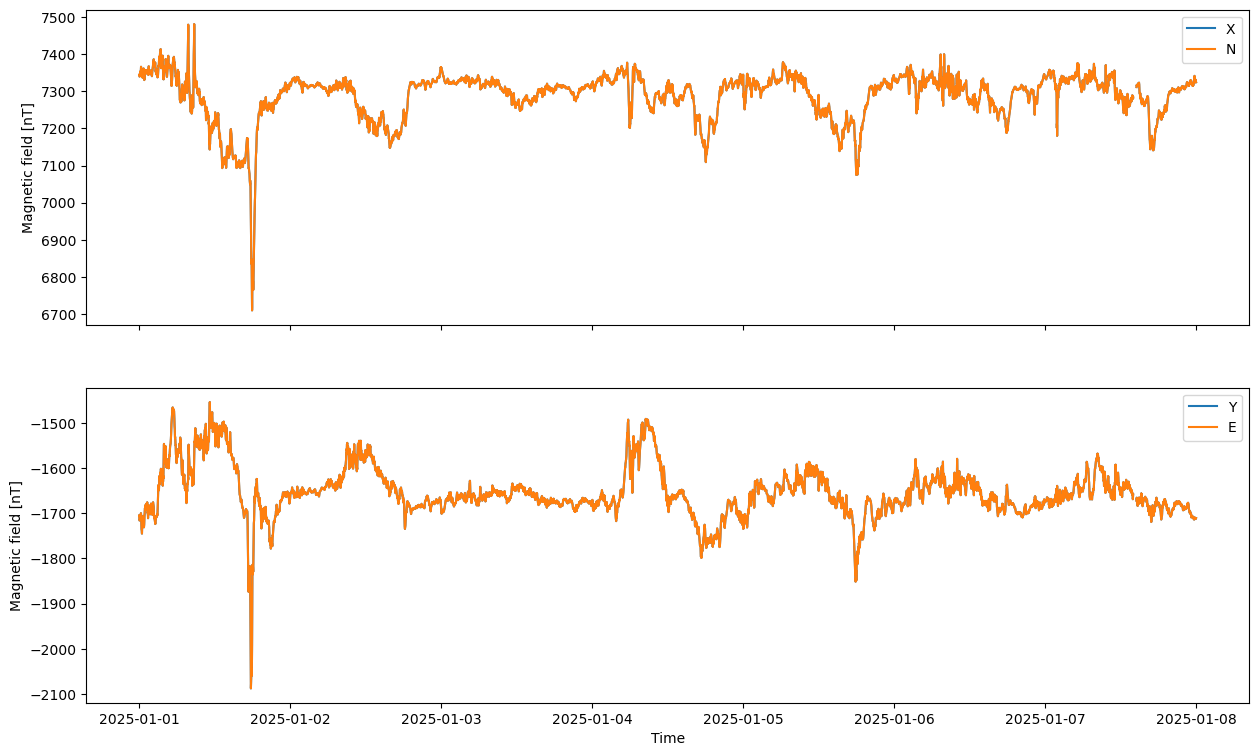
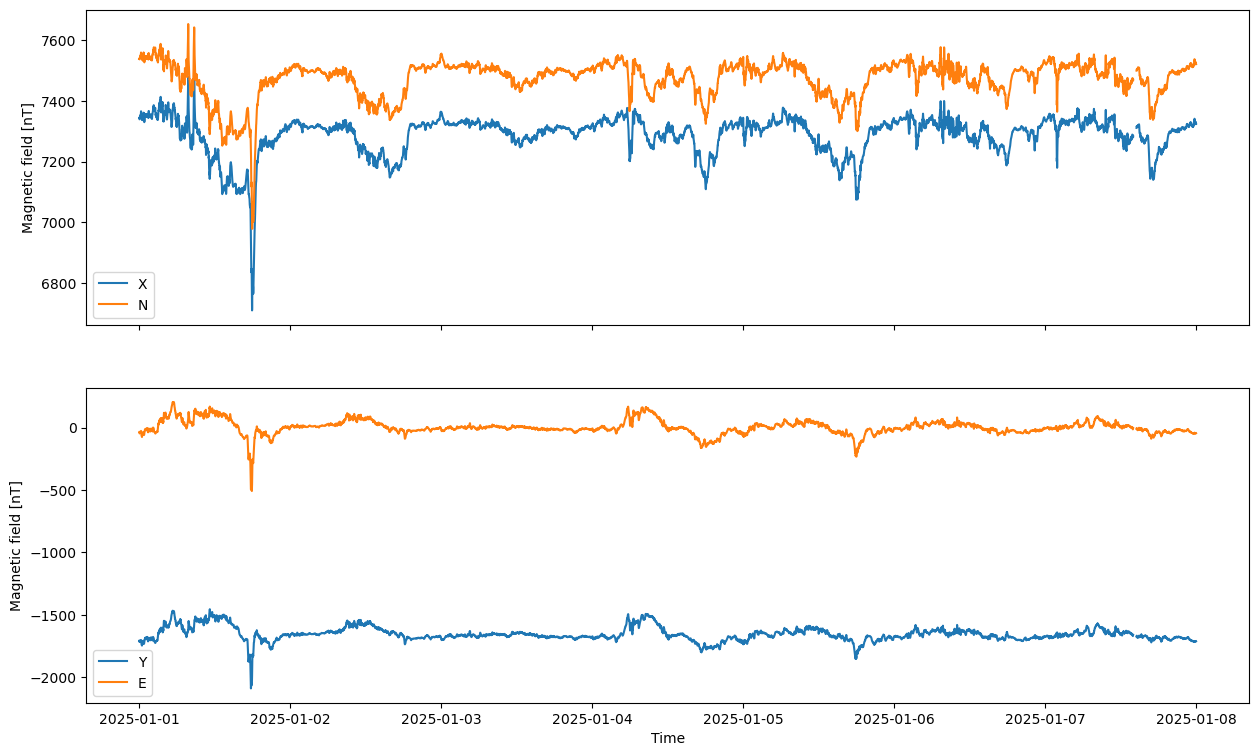
Rotation binning bug

diff --git a/baseline/coordinate_rotator.py b/baseline/coordinate_rotator.py
@@ -17,18 +17,37 @@ class CoordinateRotator:
     implementation follows the same broad approach:
 
     1. Estimate an instantaneous declination from the horizontal components.
-        2. Determine one typical declination value per day using a symmetric
-           odd-day window (17 days by default).
+    2. Determine one typical declination value per day using a symmetric
+       odd-day window (17 days by default) and an angle-specific histogram.
     3. Smooth the daily declination values.
     4. Interpolate the declination back to the native cadence.
     5. Rotate X/Y into N/E and carry Z through unchanged.
+
+    ``declination_bin_width_degrees`` controls the angular resolution of the
+    typical-value histogram. It is deliberately separate from the 1 nT bin
+    width used when estimating magnetic-field baselines.
     """
 
-    def __init__(self, t, x, y, z, window_days=17, smoothing_sigma_days=30.0):
+    def __init__(
+        self,
+        t,
+        x,
+        y,
+        z,
+        window_days=17,
+        smoothing_sigma_days=30.0,
+        declination_bin_width_degrees=0.1,
+    ):
         """Store the input data and configuration for the rotation step."""
         self.df = pd.DataFrame({"datetime": t, "X": x, "Y": y, "Z": z})
         self.window_days = int(window_days)
         self.smoothing_sigma_days = float(smoothing_sigma_days)
+        self.declination_bin_width_degrees = float(declination_bin_width_degrees)
+        if (
+            not np.isfinite(self.declination_bin_width_degrees)
+            or self.declination_bin_width_degrees <= 0
+        ):
+            raise ValueError("declination_bin_width_degrees must be positive")
 
     def rotate(self):
         """
@@ -73,7 +92,10 @@ class CoordinateRotator:
             )
 
             q_values = self.df.loc[mask, "q_raw"].values
-            q_typical, _ = get_typical_value(q_values)
+            q_typical, _ = get_typical_value(
+                q_values,
+                bin_width=np.deg2rad(self.declination_bin_width_degrees),
+            )
             timestamp = day + pd.Timedelta(hours=12)
             results.append((timestamp, q_typical))
 

diff --git a/tests/test_coordinate_rotator.py b/tests/test_coordinate_rotator.py
@@ -1,0 +1,67 @@
+from __future__ import annotations
+
+import unittest
+
+import numpy as np
+
+from baseline import CoordinateRotator
+
+
+class CoordinateRotatorTests(unittest.TestCase):
+    def test_recovers_declination_from_large_absolute_components(self):
+        samples_per_day = 48
+        n_samples = 19 * samples_per_day
+        t = np.arange(
+            np.datetime64("2026-01-01T00:00"),
+            np.datetime64("2026-01-01T00:00") + n_samples * np.timedelta64(30, "m"),
+            np.timedelta64(30, "m"),
+        )
+
+        expected_q = np.arctan2(3000.0, 7500.0)
+        horizontal_field = np.hypot(7500.0, 3000.0)
+        rng = np.random.default_rng(42)
+        n = horizontal_field + rng.normal(0.0, 50.0, n_samples)
+        e = rng.normal(0.0, 20.0, n_samples)
+        x = n * np.cos(expected_q) - e * np.sin(expected_q)
+        y = n * np.sin(expected_q) + e * np.cos(expected_q)
+        z = np.zeros(n_samples)
+
+        rotator = CoordinateRotator(t, x, y, z)
+        rotator.rotate()
+
+        q = rotator.df["q"].to_numpy(dtype=float)
+        rotated_e = rotator.df["E"].to_numpy(dtype=float)
+
+        self.assertAlmostEqual(
+            np.degrees(np.nanmedian(q)),
+            np.degrees(expected_q),
+            delta=0.1,
+        )
+        self.assertLess(abs(np.nanmean(rotated_e)), 20.0)
+        self.assertGreater(abs(np.nanmean(y)), 2500.0)
+
+    def test_rejects_nonpositive_declination_bin_width(self):
+        t = np.array([np.datetime64("2026-01-01T00:00")])
+        values = np.ones(1)
+
+        with self.assertRaisesRegex(ValueError, "must be positive"):
+            CoordinateRotator(
+                t,
+                values,
+                values,
+                values,
+                declination_bin_width_degrees=0.0,
+            )
+
+        with self.assertRaisesRegex(ValueError, "must be positive"):
+            CoordinateRotator(
+                t,
+                values,
+                values,
+                values,
+                declination_bin_width_degrees=np.nan,
+            )
+
+
+if __name__ == "__main__":
+    unittest.main()

diff --git a/baseline/baseline_estimator.py b/baseline/baseline_estimator.py
@@ -784,10 +784,18 @@ class BaselineEstimator:
 def get_typical_value(
     vals,
     return_diagnostics=False,
+    *,
+    bin_width=1.0,
 ):
-    """Estimate the paper-style typical value and spread."""
+    """Estimate the paper-style typical value and spread.
+
+    ``bin_width`` uses the same units as ``vals``. Its 1.0 default is the
+    1 nT resolution used for magnetic-field baseline estimation; callers with
+    other quantities, such as angles, must provide an appropriate resolution.
+    """
     mu, sigma, diagnostics = _get_typical_value_paper_mode(
         vals,
+        bin_width=bin_width,
         return_diagnostics=return_diagnostics,
     )
 

diff --git a/vault/05_Handoff/Handoff - Latest.md b/vault/05_Handoff/Handoff - Latest.md
@@ -1,35 +1,44 @@
 # Handoff - Latest
 
-Last updated: 2026-07-26
-Verified against: `baseline_v2` code at `d979b94`
+Last updated: 2026-09-28
+Verified against: `baseline_v2` working tree based on `954ba50`
 
 ## Project in one paragraph
 
 BASELINE reproduces the baseline-removal workflow from the 2012 SuperMAG
 data-processing paper. `baseline/` is the paper-oriented reference track.
 `baseline_v2/` is a faster array-first experimental track with both reference
-and robust Step 1c estimators. Work is currently paused on the V2 branch.
+and robust Step 1c estimators. A bounded coordinate-rotation bug fix is complete
+in the working tree; broader V2 work remains paused.
 
 ## Live repository snapshot
 
-At the 2026-07-26 documentation review:
+At the 2026-09-28 rotation checkpoint:
 
-- the worktree was clean before the onboarding changes;
-- `baseline_v2` matched `origin/baseline_v2`;
-- the latest code commit was `d979b94` from 2026-04-28;
-- the project vault and root `AGENTS.md` were integrated as versioned
-  documentation while local `.obsidian/` state remained ignored;
-- the vault integration made no source-code or scientific changes;
-- no later project work was found;
-- V2 unit tests, SuperMAG-facing scripts, checkpoints, and reference/robust
-  figure outputs were present;
-- the focused V2 suite passed 14 tests with 1 skipped, and the broad syntax
-  check passed.
+- `baseline_v2` is based on `954ba50` and tracks `origin/baseline_v2`;
+- the working tree contains the uncommitted coordinate-rotation fix, its tests,
+  and this project-memory checkpoint;
+- declination now uses a configurable `0.1 degree` histogram width instead of
+  the field estimator's `1 nT` numeric default;
+- `tests/test_coordinate_rotator.py` verifies the reported X=7500 nT,
+  Y=3000 nT geometry and recovers approximately 21.8 degrees;
+- all 16 focused tests pass and the broad Python syntax check passes;
+- the repaired rotator was run on all 525,600 samples of
+  `data/DMH_1min_2025.csv`, yielding a median declination of -12.77 degrees;
+- `figures/real_rotation.png` was regenerated and visually inspected: over its
+  first-week interval, mean Y=-1654.7 nT becomes mean E=1.0 nT;
+- downstream variance and baseline-estimation outputs were not regenerated.
 
 Inspect Git and the live code again before making changes. This snapshot is
 orientation, not authority.
 
-## Current implementation focus
+## Next action
+
+Review and commit the coordinate-rotation fix. When broader project work
+resumes, the research focus remains the V2 reference-versus-robust comparison
+below.
+
+## Paused implementation focus
 
 The next research task is to validate V2's robust dominant-region Step 1c
 estimator against the V2 reference path:
@@ -47,6 +56,9 @@ comparison that the historical work did not record formally.
 
 ## Relevant entry points
 
+- `baseline/coordinate_rotator.py`
+- `baseline/baseline_estimator.py`
+- `tests/test_coordinate_rotator.py`
 - `baseline_v2/step1c_reference.py`
 - `baseline_v2/step1c_robust.py`
 - `baseline_v2/types.py`

diff --git a/vault/01_Project/Current State.md b/vault/01_Project/Current State.md
@@ -1,15 +1,15 @@
 # Current State
 
-Reviewed: 2026-07-26
-Code snapshot: `baseline_v2` at `d979b94`
+Reviewed: 2026-09-28
+Code snapshot: `baseline_v2` at `954ba50` with an uncommitted coordinate-rotation fix
 Vault integration: versioned in the repository; local `.obsidian/` state ignored
 
 ## Current position
 
-Development is paused on the modern V2 track. The repository has no commits
-containing implementation changes after 2026-04-28, so the pause did not
-conceal newer code changes. The later vault-integration commit is
-documentation-only and does not change scientific or implementation state.
+Broader development remains paused on the modern V2 track. The committed
+implementation has not changed since 2026-04-28; the working tree now contains
+a bounded coordinate-rotation fix made on 2026-09-28. The later committed
+vault-integration change remains documentation-only.
 
 The repository currently contains:
 
@@ -30,8 +30,17 @@ The repository currently contains:
 - Existing V2 outputs are present under
   `figures/SM_example_v2/reference/` and
   `figures/SM_example_v2/robust/`.
-- On 2026-07-26, the focused V2 suite passed 14 tests with 1 optional
-  comparison skipped, and the broad Python syntax check passed.
+- The coordinate rotator now evaluates declination with a configurable
+  angle-specific histogram width of `0.1 degree` instead of applying the
+  baseline estimator's `1 nT` default directly to radians. The regression in
+  `tests/test_coordinate_rotator.py` recovers the expected `21.8 degree`
+  orientation for mean components near X=7500 nT and Y=3000 nT.
+- On 2026-09-28, all 16 focused tests passed and the broad Python syntax check
+  passed.
+- On the full 525,600-sample `DMH_1min_2025.csv` input, the repaired rotator
+  produced a median declination of -12.77 degrees. Over the plotted first week,
+  the mean Y component changed from -1654.7 nT to a rotated E mean of 1.0 nT.
+  `figures/real_rotation.png` was regenerated and visually inspected.
 - The old handoff claim that real-data execution was blocked by missing
   `netCDF4` is superseded as a project-state claim. Those libraries remain
   optional environment prerequisites.
@@ -43,8 +52,10 @@ The repository currently contains:
   benchmark.
 - Scientific equivalence or improvement of robust V2 over the reference path
   has not been established quantitatively.
-- Committed figures and checkpoints have not been regenerated during this
-  review.
+- Baseline-estimation figures and checkpoints have not been regenerated during
+  this review; only the coordinate-rotation figure was regenerated.
+- The coordinate-rotation fix and its project-memory checkpoint are not yet
+  committed.
 
 ## Current research focus
 

diff --git a/vault/04_Sessions/2026-09-28.md b/vault/04_Sessions/2026-09-28.md
@@ -1,0 +1,50 @@
+# 2026-09-28 Coordinate-Rotation Fix
+
+## Problem
+
+For absolute horizontal components near X=7500 nT and Y=3000 nT,
+`CoordinateRotator` returned an effectively unchanged X/Y pair. Removing the
+large component levels made a rotation visible, although those absolute levels
+are required to determine the instrument's orientation relative to magnetic
+north.
+
+## Cause
+
+`q_raw = unwrap(arctan2(Y, X))` is measured in radians, but the class passed it
+to the baseline typical-value estimator with its default fixed `1.0` bin width.
+That default represents `1 nT` for field components. Applied to radians, it
+became a 57.3-degree bin: the expected 21.8-degree declination fell in the bin
+centered on zero, so smoothing and interpolation preserved `q=0` and the final
+rotation became an identity.
+
+## Fix
+
+- Added an explicit `bin_width` option to
+  `baseline/baseline_estimator.py::get_typical_value` while preserving its
+  `1 nT` default.
+- Added configurable `declination_bin_width_degrees=0.1` to
+  `baseline/coordinate_rotator.py` and converted that width to radians at the
+  call site.
+- Added `tests/test_coordinate_rotator.py` covering the reported absolute-field
+  geometry and invalid bin widths.
+- Documented the separate field and angular histogram resolutions.
+
+## Verification
+
+- Confirmed: the regression recovers approximately 21.8 degrees and reduces
+  the rotated mean E component from roughly 3000 nT to near zero.
+- Confirmed: all 16 focused unit tests pass.
+- Confirmed: the broad Python syntax check passes.
+- Confirmed on all 525,600 samples of `data/DMH_1min_2025.csv`: median
+  declination is -12.77 degrees. In the first seven days plotted by the real
+  data example, mean Y changes from -1654.7 nT to a rotated E mean of 1.0 nT.
+- Regenerated and visually inspected `figures/real_rotation.png` using the
+  original script's loading, rotation, and plotting path.
+- Not run: the downstream variance and baseline-estimation stages, which are
+  unrelated to producing the rotation figure.
+
+## Repository state
+
+- Branch: `baseline_v2`
+- Base commit: `954ba50`
+- The fix and memory updates are uncommitted.

diff --git a/vault/03_Decisions/Decision Log.md b/vault/03_Decisions/Decision Log.md
@@ -1,5 +1,16 @@
 # Decision Log
 
+## 2026-09-28 - Use Angle-Specific Bins For Declination
+
+Decision: Keep the paper-style modal estimator for declination, but use a
+configurable angular histogram width of `0.1 degree` by default.
+
+Rationale: `CoordinateRotator` produces radians while the shared typical-value
+estimator default is the fixed `1 nT` width used for field components. Treating
+that numeric default as one radian quantized ordinary station orientations to
+zero and made the rotation an identity. The field-estimation default remains
+`1 nT`; angular callers must supply an angular resolution explicitly.
+
 ## 2026-07-26 - Standardize the vault root
 
 Decision: Store project memory at the repository-root `vault/` path.

diff --git a/documentation/BASELINE_algorithm.md b/documentation/BASELINE_algorithm.md
@@ -81,6 +81,11 @@ Implemented steps:
    - `q_raw = unwrap(arctan2(Y, X))`
 2. Estimate one typical declination value per day using a symmetric odd-day
    window.
+   - The paper-style typical-value histogram uses an angle-specific bin width
+     of `0.1 degree` by default. This is configurable through
+     `declination_bin_width_degrees`.
+   - The generic baseline estimator's default `1.0` bin width means `1 nT`
+     and must not be applied directly to angles in radians.
 3. Smooth the daily declination values.
 4. Interpolate the smoothed declination back to the full time grid.
 5. Rotate:
